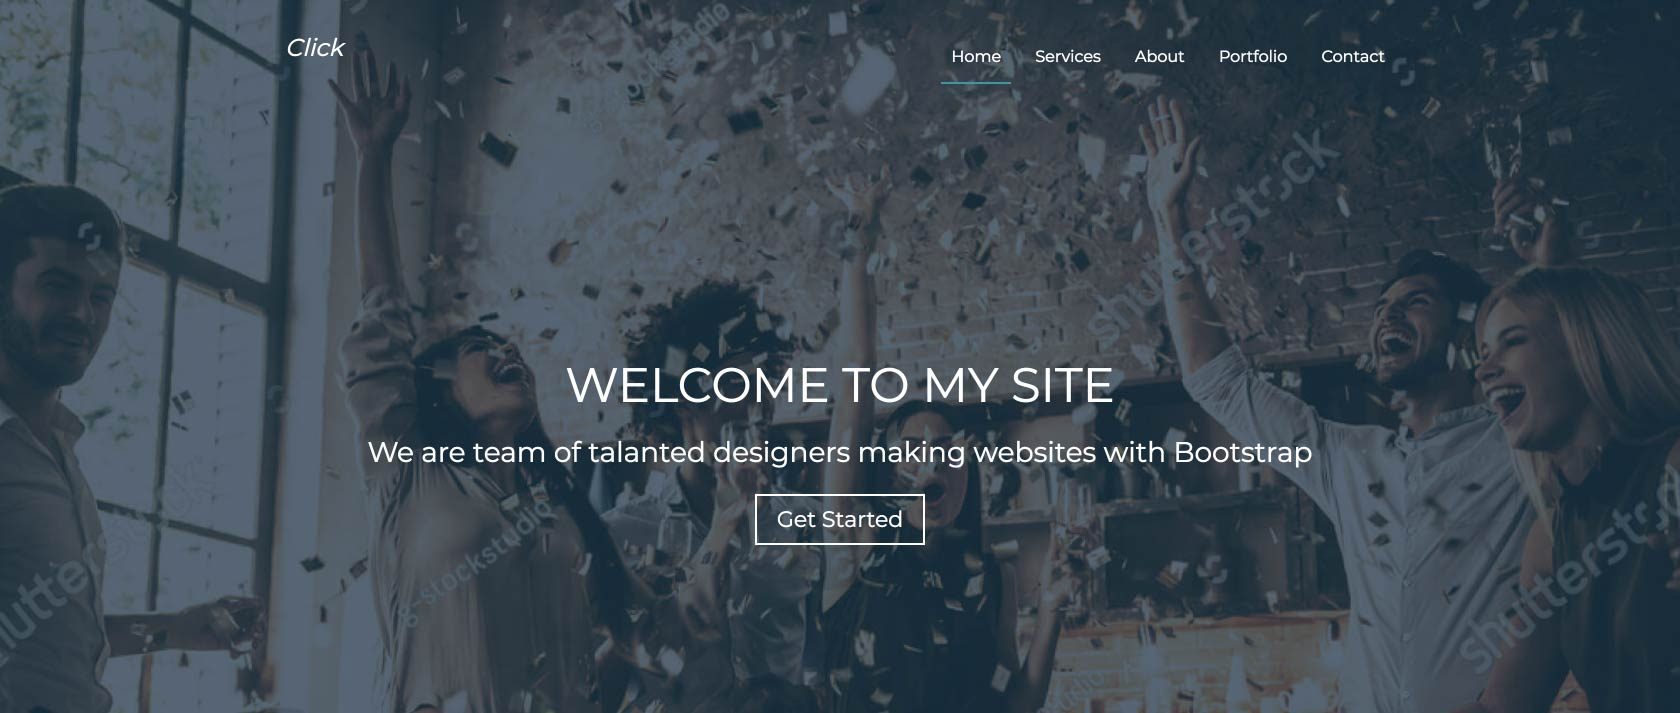
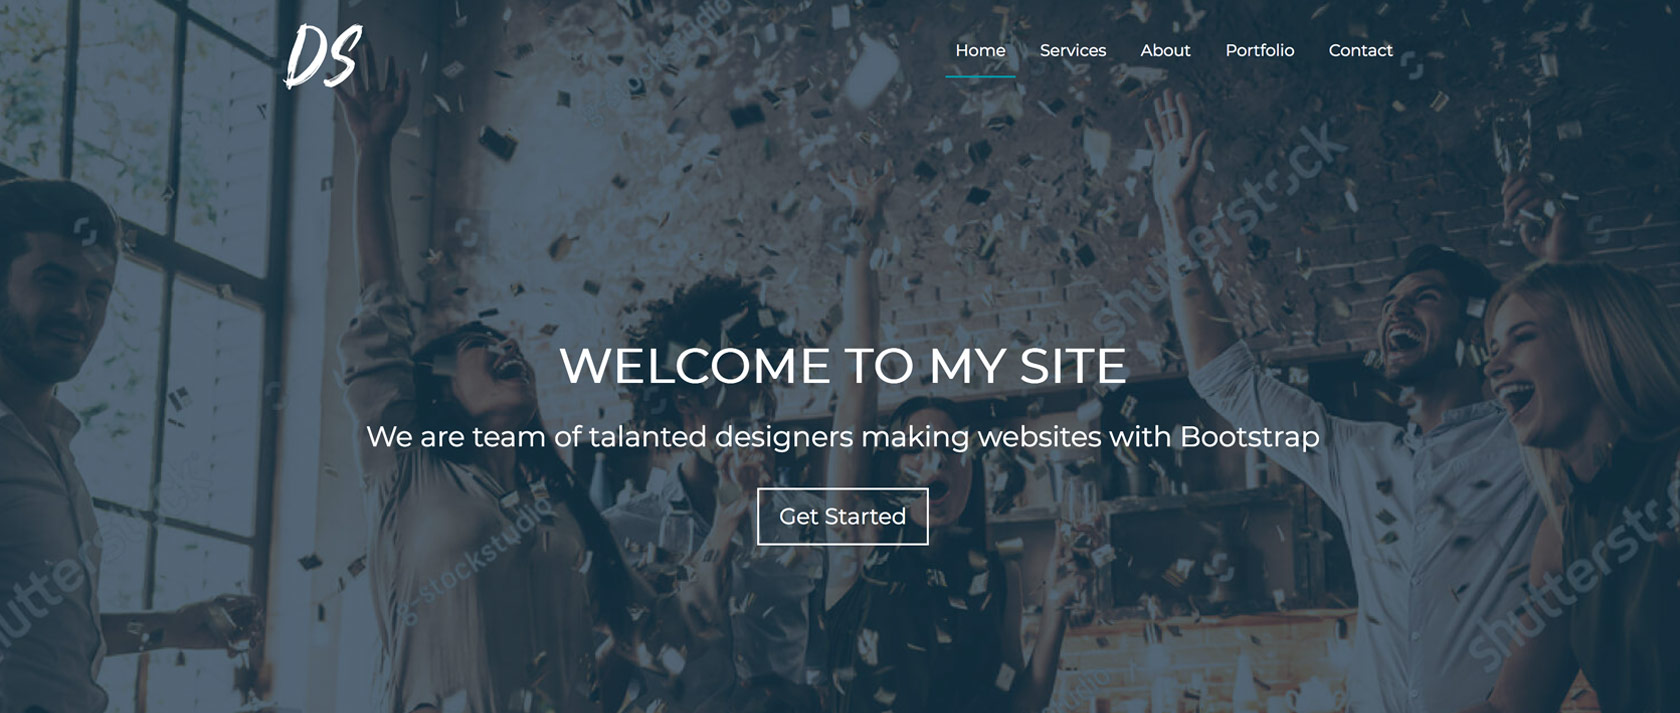
updated read me file

diff --git a/README.md b/README.md
@@ -1,12 +1,12 @@
-# Bootstrap Theme - Click
+# Bootstrap Theme - Design Studio
 
-[![Click Preview](https://position2.github.io/free-bootstrap-theme-ds/images/template/design-studio.jpg)](https://position2.github.io/free-bootstrap-theme-ds/)
+[![Design Studio Preview](https://position2.github.io/free-bootstrap-theme-ds/images/template/design-studio.jpg)](https://position2.github.io/free-bootstrap-theme-ds/)
 
 **[Live Demo](https://position2.github.io/free-bootstrap-theme-ds/)**
 
 # Theme Details & Demo
 
-Click is a free Bootstrap landing page theme designed for developers & startups. You can use the template as it is or integrate the front-end design as per your requirement. The source files are included so you can customise the design with ease.
+Design Studio is a free Bootstrap landing page theme designed for developers & startups. You can use the template as it is or integrate the front-end design as per your requirement. The source files are included so you can customise the design with ease.
 
 We will update and improve the template based on user feedback so get in touch or leave a comment if you have any questions or suggestions. If you like the template and find it useful, we'd appreciate your help in spreading the word on your networks. You can also follow us on Twitter to be the first to know when we release new templates and other freebies
 
